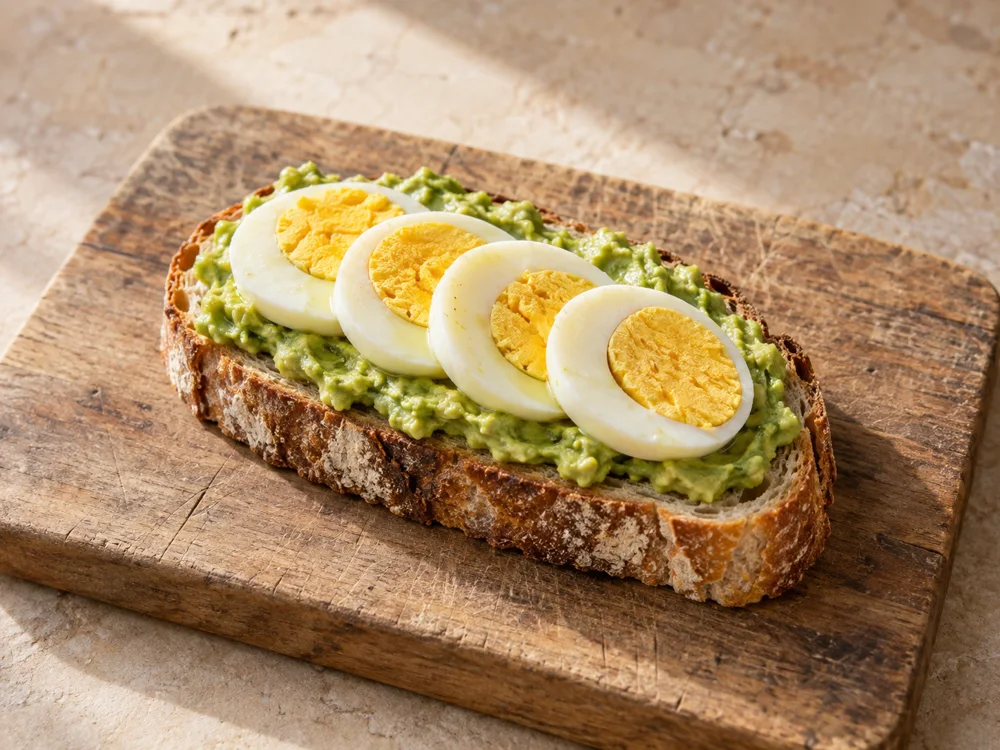
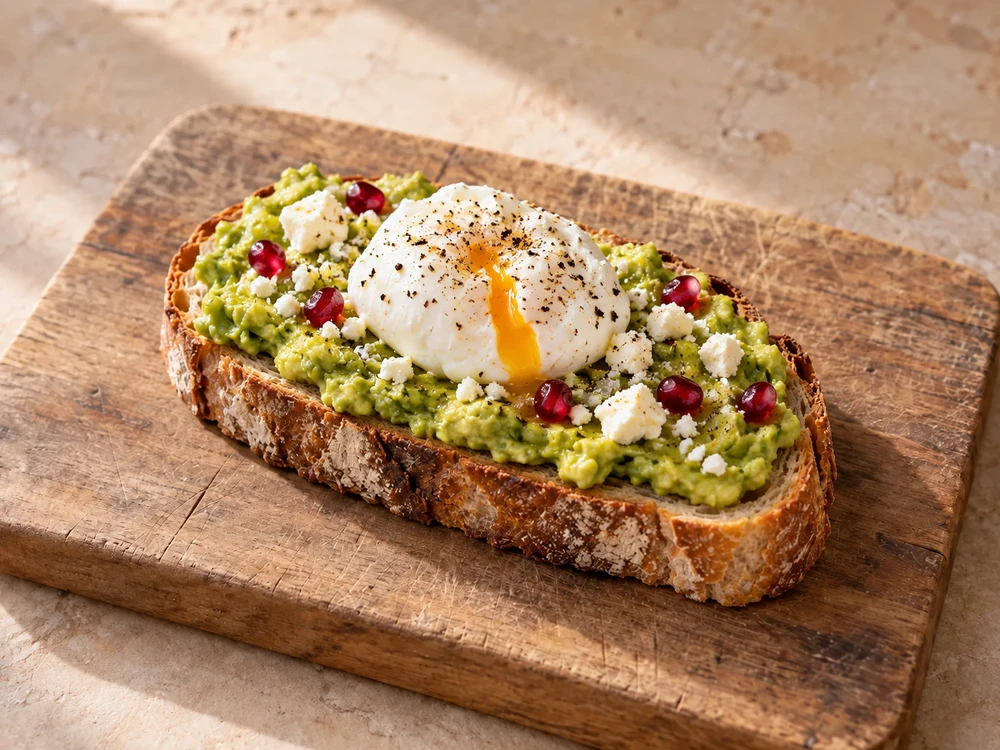
Refresh avocado tartine and make finishing garnishes opt-in

diff --git a/app/lib/sandwichCatalog.ts b/app/lib/sandwichCatalog.ts
@@ -2,7 +2,7 @@ export type SandwichFamily = 'baguette' | 'focaccia' | 'bagel' | 'pita' | 'greek
 export type SandwichText = { fr: string; en: string };
 export type SandwichAllergen = 'gluten' | 'milk' | 'egg' | 'fish' | 'sesame' | 'nuts' | 'mustard' | 'soy';
 export interface SandwichIngredient { id: string; name: SandwichText; kcalPer100g: number; allergens: SandwichAllergen[]; vegetarian: boolean; category: 'vegetables' | 'protein' | 'dairy' | 'pantry' | 'bread'; source: string; referenceFood: string; provenance: 'generic-food-estimate'; }
-export interface SandwichPortion { ingredientId: string; grams: number; }
+export interface SandwichPortion { ingredientId: string; grams: number; optionalGrams?: number; }
 export interface SandwichStep { id: string; title: SandwichText; instruction: SandwichText; minutes: number; phase: 'prep' | 'cook' | 'assemble' | 'chill'; }
 export interface SandwichRecipe { id: string; familyId: SandwichFamily; name: SandwichText; kind: 'classic' | 'inspired'; lighter: boolean; vegetarian: boolean; ingredients: SandwichPortion[]; steps: SandwichStep[]; allergens: SandwichAllergen[]; image: string; breadGrams: number; sourceIds: string[]; }
 export interface SandwichFamilyInfo { id: SandwichFamily; name: SandwichText; image: string; breadGrams: number; breadKcalPer100g: number; comparisonKcal: number; }
@@ -37,6 +37,9 @@ const ingredientRows: IngredientRow[] = [
  ['tuna','Thon au naturel égoutté','Drained tuna in water',116,'protein',['fish'],false],['smoked_salmon','Saumon fumé prêt à consommer','Ready-to-eat smoked salmon',180,'protein',['fish'],false],
  ['sardine','Sardines à l’huile égouttées','Drained sardines in oil',208,'protein',['fish'],false],['anchovy','Anchois à l’huile égouttés','Drained anchovies in oil',210,'protein',['fish'],false],
  ['egg','Œuf dur écalé','Peeled hard-boiled egg',155,'protein',['egg']],['chickpea','Pois chiches cuits égouttés','Drained cooked chickpeas',139,'protein'],
+ ['egg_to_poach','Œuf à pocher','Egg for poaching',143,'protein',['egg']],
+ ['pomegranate','Graines de grenade','Pomegranate seeds',83,'vegetables'],
+ ['salt','Sel','Salt',0,'pantry'],['black_pepper','Poivre noir','Black pepper',251,'pantry'],
  ['white_bean','Haricots blancs cuits égouttés','Drained cooked white beans',114,'protein'],['falafel','Falafels déjà cuits','Cooked falafel',333,'protein',[],true],
  ['hummus','Houmous au tahini','Tahini hummus',237,'pantry',['sesame']],['tahini','Tahini','Tahini',595,'pantry',['sesame']],
  ['mozzarella','Mozzarella égouttée','Drained mozzarella',250,'dairy',['milk']],['burrata','Burrata égouttée','Drained burrata',300,'dairy',['milk']],
@@ -62,10 +65,10 @@ for (const f of SANDWICH_FAMILIES) SANDWICH_INGREDIENTS[`bread_${f.id}`] = {id:`
 // Ingredient quantities are edible grams for ONE serving: a sandwich, or an open-faced tartine portion.
 type RecipeRow = [SandwichFamily,string,string,string,'classic'|'inspired',boolean,string];
 const recipeRows: RecipeRow[] = [
- ['tartine','avocat-oeuf','Avocat et œuf dur','Avocado & hard-boiled egg','inspired',false,'avocado:60 egg:55 lemon:5'],
+ ['tartine','avocat-oeuf','Avocat, œuf poché et feta','Avocado, poached egg & feta','inspired',false,'avocado:60 egg_to_poach:55 feta:25 lemon:5 salt:0.3 black_pepper:0.1 pomegranate:0:15'],
  ['tartine','chevre-miel-noix','Chèvre, miel et noix','Goat cheese, honey & walnuts','classic',false,'goat_cheese:40 honey:8 walnut:10'],
  ['tartine','jambon-emmental','Jambon et emmental','Ham & Emmental','classic',false,'ham:45 emmental:25 butter:5'],
- ['tartine','champignons-ricotta','Champignons et ricotta','Mushrooms & ricotta','inspired',false,'mushroom:80 ricotta:35 olive_oil:3 parsley:3'],
+ ['tartine','champignons-ricotta','Champignons et ricotta','Mushrooms & ricotta','inspired',false,'mushroom:80 ricotta:35 olive_oil:3 parsley:0:3'],
  ['tartine','tomate-ricotta','Tomate, ricotta et basilic','Tomato, ricotta & basil','inspired',true,'tomato:70 ricotta:30 basil:3'],
  ['tartine','thon-yaourt','Thon, yaourt et concombre','Tuna, yogurt & cucumber','inspired',true,'tuna:50 yogurt:20 cucumber:40 lemon:5'],
  ['baguette','jambon-beurre','Jambon-beurre','Ham & butter','classic',false,'ham:70 butter:18 pickle:20'],
@@ -78,17 +81,17 @@ const recipeRows: RecipeRow[] = [
  ['baguette','legumes-mozza','Légumes rôtis et mozzarella','Roasted vegetables & mozzarella','inspired',false,'courgette:60 pepper:50 mozzarella:55 olive_oil:5 basil:3'],
  ['baguette','poulet-citron','Poulet citron et croquant','Lemon chicken & crunch','inspired',true,'chicken:55 yogurt:20 lemon:8 lettuce:25 cucumber:50 carrot:30'],
  ['baguette','thon-yaourt','Thon, yaourt et concombre','Tuna, yogurt & cucumber','inspired',true,'tuna:65 yogurt:20 cucumber:60 tomato:40 lemon:6'],
- ['focaccia','mortadelle-pistache','Mortadelle, burrata et pistache','Mortadella, burrata & pistachio','classic',false,'mortadella:65 burrata:60 pistachio:12 rocket:15'],
+ ['focaccia','mortadelle-pistache','Mortadelle et burrata','Mortadella & burrata','classic',false,'mortadella:65 burrata:60 pistachio:0:12 rocket:15'],
  ['focaccia','crudo-mozza','Jambon cru et mozzarella','Prosciutto & mozzarella','classic',false,'prosciutto:60 mozzarella:65 tomato:50 rocket:15'],
  ['focaccia','porchetta','Porchetta et roquette','Porchetta & rocket','classic',false,'porchetta:100 rocket:20 mustard:8'],
  ['focaccia','caprese','Tomate, mozzarella et basilic','Tomato, mozzarella & basil','classic',false,'mozzarella:85 tomato:90 basil:5 olive_oil:8'],
  ['focaccia','salame-provolone','Salami et provolone','Salami & provolone','classic',false,'salami:55 provolone:45 rocket:20'],
  ['focaccia','saumon-avocat','Saumon et avocat','Salmon & avocado','inspired',false,'smoked_salmon:65 avocado:65 cream_cheese:25 lemon:6'],
- ['focaccia','champignons-ricotta','Champignons et ricotta','Mushrooms & ricotta','inspired',false,'mushroom:120 ricotta:70 olive_oil:6 parsley:4'],
+ ['focaccia','champignons-ricotta','Champignons et ricotta','Mushrooms & ricotta','inspired',false,'mushroom:120 ricotta:70 olive_oil:6 parsley:0:4'],
  ['focaccia','aubergine-pesto','Aubergine, mozzarella et pesto','Aubergine, mozzarella & pesto','inspired',false,'aubergine:100 mozzarella:60 pesto:15 olive_oil:5'],
  ['focaccia','poulet-roquette','Poulet, roquette et citron','Chicken, rocket & lemon','inspired',true,'chicken:60 rocket:25 tomato:70 yogurt:20 lemon:8'],
  ['focaccia','legumes-ricotta','Légumes rôtis et ricotta','Roasted vegetables & ricotta','inspired',true,'courgette:80 pepper:60 ricotta:35 olive_oil:3 basil:4'],
- ['bagel','saumon-cream-cheese','Saumon et fromage frais','Smoked salmon & cream cheese','classic',false,'smoked_salmon:75 cream_cheese:45 cucumber:35 caper:8 onion:10'],
+ ['bagel','saumon-cream-cheese','Saumon et fromage frais','Smoked salmon & cream cheese','classic',false,'smoked_salmon:75 cream_cheese:45 cucumber:35 caper:0:8 onion:10'],
  ['bagel','oeuf-cheddar','Œuf et emmental','Egg & Emmental','classic',false,'egg:100 emmental:40 butter:8'],
  ['bagel','thon-mayo','Thon mayonnaise','Tuna mayonnaise','classic',false,'tuna:85 mayonnaise:25 lettuce:20 tomato:40'],
  ['bagel','roast-beef','Bœuf, moutarde et cornichons','Roast beef, mustard & gherkins','classic',false,'roast_beef:90 cream_cheese:25 mustard:10 pickle:25'],
@@ -141,7 +144,7 @@ const recipeRows: RecipeRow[] = [
  ['ciabatta','caprese','Tomate, mozzarella et basilic','Tomato, mozzarella & basil','classic',false,'mozzarella:85 tomato:90 olive_oil:8 basil:5'],
  ['ciabatta','crudo','Jambon cru et mozzarella','Prosciutto & mozzarella','classic',false,'prosciutto:65 mozzarella:65 rocket:20 olive_oil:5'],
  ['ciabatta','porchetta','Porchetta et poivrons','Porchetta & peppers','classic',false,'porchetta:110 pepper:70 olive_oil:5 rocket:20'],
- ['ciabatta','champignons-provolone','Champignons et provolone','Mushrooms & provolone','inspired',false,'mushroom:110 provolone:65 olive_oil:8 parsley:5'],
+ ['ciabatta','champignons-provolone','Champignons et provolone','Mushrooms & provolone','inspired',false,'mushroom:110 provolone:65 olive_oil:8 parsley:0:5'],
  ['ciabatta','dinde-crudites','Dinde et crudités','Turkey & fresh salad','inspired',true,'turkey:60 yogurt:20 cucumber:55 tomato:55 lettuce:20 mustard:5'],
  ['ciabatta','haricots-roquette','Haricots blancs et roquette','White beans & rocket','inspired',true,'white_bean:75 rocket:25 tomato:80 olive_oil:3 lemon:8'],
  ['panuozzo','pancetta-mozza','Pancetta et mozzarella','Pancetta & mozzarella','classic',false,'pancetta:60 mozzarella:85'],
@@ -157,6 +160,16 @@ export function buildSandwichSteps(id: string, familyId: SandwichFamily, ingredi
   const has = (ingredientId: string) => ingredients.some(i=>i.ingredientId===ingredientId);
   const steps: SandwichStep[] = [];
   const add = (key:string,fr:string,en:string,frInstruction:string,enInstruction:string,minutes:number,phase:SandwichStep['phase']) => steps.push({id:`${id}-${key}`,title:text(fr,en),instruction:text(frInstruction,enInstruction),minutes,phase});
+  if (id==='tartine-avocat-oeuf') {
+    add('prep','Préparer la garniture','Prepare the toppings','Pesez les garnitures par portion. Préparez le citron et, si elle est sélectionnée, la grenade. Émiettez la feta si elle est conservée.','Weigh the toppings per portion. Prepare the lemon and, if selected, the pomegranate. Crumble the feta if retained.',3,'prep');
+    add('bread','Trancher et toaster','Slice and toast','Pesez 60 g de pain déjà cuit et refroidi par portion : une grande tranche ou plusieurs petites. Toastez légèrement. Une portion ne correspond pas à un pain entier.','Weigh 60 g of baked, cooled bread per portion: one large slice or several small ones. Toast lightly. One portion is not one whole loaf.',3,'cook');
+    if (has('avocado')) add('avocado','Écraser l’avocat','Mash the avocado','Écrasez l’avocat à la fourchette avec le citron s’il est conservé. Assaisonnez avec un peu du sel et du poivre prévus, en tenant compte de la feta déjà salée.','Mash the avocado with the lemon if retained. Season with a little of the listed salt and pepper, allowing for the saltiness of the feta.',2,'prep');
+    if (has('egg_to_poach')) add('egg','Pocher l’œuf','Poach the egg','Comptez environ 1 œuf par portion (55 g sans coquille). Cassez chaque œuf dans une petite tasse. Glissez-le dans une casserole d’eau frémissante, sans gros bouillons. Pochez 3–4 min, jusqu’à ce que le blanc soit pris ; prolongez pour un jaune plus ferme. Égouttez délicatement avec une écumoire.','Allow about 1 egg per portion (55 g without shell). Crack each egg into a small cup. Slide into gently simmering water, not a rolling boil. Poach for 3–4 minutes until the white is set; cook longer for a firmer yolk. Lift out gently with a slotted spoon and drain.',5,'cook');
+    const toppingsFr=[has('avocado')?'Étalez l’avocat sur le pain.':'Disposez les garnitures conservées sur le pain.',has('feta')?'Répartissez la feta émiettée.':'',has('egg_to_poach')?'Déposez délicatement l’œuf poché.':'',has('salt')||has('black_pepper')?'Terminez avec le sel et le poivre conservés, selon votre goût.':'',has('pomegranate')?'Parsemez les graines de grenade sélectionnées.':'','Servez ouvert, sans seconde tranche par-dessus, aussitôt.'].filter(Boolean).join(' ');
+    const toppingsEn=[has('avocado')?'Spread the avocado over the toast.':'Arrange the retained toppings over the toast.',has('feta')?'Scatter over the crumbled feta.':'',has('egg_to_poach')?'Gently place the poached egg on top.':'',has('salt')||has('black_pepper')?'Finish with the retained salt and pepper to taste.':'',has('pomegranate')?'Sprinkle over the selected pomegranate seeds.':'','Serve open-faced, without another slice on top, immediately.'].filter(Boolean).join(' ');
+    add('assemble','Garnir et servir','Top and serve',toppingsFr,toppingsEn,2,'assemble');
+    return steps;
+  }
   add('prep','Préparer la garniture','Prepare the filling','Lavez et séchez les légumes et les herbes. Émincez les crudités, râpez la carotte si présente. Égouttez les conserves et les fromages indiqués égouttés. Pesez les quantités par sandwich.','Wash and dry the vegetables and herbs. Thinly slice salad vegetables; grate carrot if included. Drain canned ingredients and cheeses labelled drained. Weigh the amounts per sandwich.',8,'prep');
   if (familyId==='tartine') steps[0].instruction = text(steps[0].instruction.fr.replace('par sandwich','par portion de tartine'),steps[0].instruction.en.replace('per sandwich','per tartine portion'));
   if (has('egg')) add('egg','Préparer l’œuf','Prepare the egg','Utilisez l’œuf dur écalé prévu dans la liste. Si vous le cuisez vous-même, faites-le cuire jusqu’à ce que le blanc et le jaune soient fermes, refroidissez-le rapidement, puis écalez et tranchez.','Use the peeled hard-boiled egg listed. If cooking it yourself, cook until white and yolk are firm, cool promptly, then peel and slice.',10,'cook');
@@ -183,10 +196,10 @@ export function buildSandwichSteps(id: string, familyId: SandwichFamily, ingredi
 }
 export const SANDWICH_RECIPES: SandwichRecipe[] = recipeRows.map(([familyId,slug,fr,en,kind,lighter,encoded])=>{
   const info=SANDWICH_FAMILIES.find(f=>f.id===familyId)!;
-  const ingredients=encoded.split(' ').map(part=>{const [ingredientId,grams]=part.split(':');return {ingredientId,grams:Number(grams)};});
+  const ingredients=encoded.split(' ').map(part=>{const [ingredientId,grams,optionalGrams]=part.split(':');return {ingredientId,grams:Number(grams),...(optionalGrams?{optionalGrams:Number(optionalGrams)}:{})};});
   const vegetarian=ingredients.every(i=>SANDWICH_INGREDIENTS[i.ingredientId].vegetarian);
   const id=`${familyId}-${slug}`;
-  return {id,familyId,name:text(fr,en),kind,lighter,vegetarian,ingredients,steps:buildSandwichSteps(id,familyId,ingredients,vegetarian),allergens:[...new Set<SandwichAllergen>(['gluten',...ingredients.flatMap(i=>SANDWICH_INGREDIENTS[i.ingredientId].allergens)])],image:`/images/approved/sandwich/${id}.webp`,breadGrams:info.breadGrams,sourceIds:familyId==='pan_bagnat'&&kind==='classic'?['nice-pan-bagnat']:familyId==='piadina'&&kind==='classic'?['romagna-piadina']:['bakerhub-editorial']};
+  return {id,familyId,name:text(fr,en),kind,lighter,vegetarian,ingredients,steps:buildSandwichSteps(id,familyId,ingredients.filter(i=>i.grams>0),vegetarian),allergens:[...new Set<SandwichAllergen>(['gluten',...ingredients.flatMap(i=>SANDWICH_INGREDIENTS[i.ingredientId].allergens)])],image:`/images/approved/sandwich/${id}.webp`,breadGrams:info.breadGrams,sourceIds:familyId==='pan_bagnat'&&kind==='classic'?['nice-pan-bagnat']:familyId==='piadina'&&kind==='classic'?['romagna-piadina']:['bakerhub-editorial']};
 });
 const recipeEnergy = (r:SandwichRecipe) => r.breadGrams*SANDWICH_FAMILIES.find(f=>f.id===r.familyId)!.breadKcalPer100g/100+r.ingredients.reduce((sum,i)=>sum+i.grams*SANDWICH_INGREDIENTS[i.ingredientId].kcalPer100g/100,0);
 // "Lighter" means >=20% less estimated energy than this family's classic recipes,

diff --git a/app/components/SandwichParty.tsx b/app/components/SandwichParty.tsx
@@ -200,12 +200,20 @@ export default function SandwichParty({isFr,styleKey,snapshot,onChange,breadIngr
         <div className={styles.sheetBody}>
           <img className={styles.recipePhoto} src={detail.image} alt={tr(detail.name)} width={640} height={480} decoding="async"/>
           {Object.keys(snapshot.ingredientOverrides?.[detail.id]??{}).length>0&&<p className={styles.muted}>{t('Photo de la recette de base ; vos garnitures ont été personnalisées.','Photo shows the original recipe; you have customized the fillings.')}</p>}
+          {detail.ingredients.some(item=>item.optionalGrams)&&<p className={styles.muted}>{t('Photo avec les garnitures facultatives proposées ci-dessous.','Photo includes the optional toppings offered below.')}</p>}
           <p className={styles.muted}>{tartine ? t('Pour une portion de tartine','For one toast portion') : t('Pour un sandwich','For one sandwich')} · ≈ {kcal(detail)} kcal · {t('pain inclus','bread included')}</p>
           <h3>{t('Pain','Bread')}</h3><p>{breadName} · ≈ {detail.breadGrams} g</p>
           <p className={styles.muted}>{t('Calories estimées avec des aliments génériques ; le pain et les marques peuvent modifier le résultat.','Calories use generic food estimates; bread and brands can change the result.')}</p>
           <h3>{tartine ? t('Garnitures par portion','Toppings per portion') : t('Garnitures par sandwich','Fillings per sandwich')}</h3>
           <p className={styles.muted}>{t('Ajustez les grammes ; 0 retire un ingrédient. Les courses et calories suivent vos changements.','Adjust grams; 0 removes an ingredient. Shopping quantities and calories follow your changes.')}</p>
-          {detail.ingredients.map(item=><div key={item.ingredientId} className={styles.ingredient}><label htmlFor={`${detailHeading}-${item.ingredientId}`}>{ingredientName(item.ingredientId)}</label><input id={`${detailHeading}-${item.ingredientId}`} type="number" inputMode="decimal" min={0} max={500} step={5} value={snapshot.ingredientOverrides?.[detail.id]?.[item.ingredientId]??item.grams} onChange={event=>{const value=Number(event.target.value);onChange(updateSandwichRecipe({...snapshot,familyId:family.id},detail.id,count(snapshot.qtys[detail.id]),{...snapshot.ingredientOverrides?.[detail.id],[item.ingredientId]:Number.isFinite(value)?Math.max(0,Math.min(500,value)):item.grams}));}}/><span>g</span></div>)}
+          {detail.ingredients.map(item=>{
+            const grams=snapshot.ingredientOverrides?.[detail.id]?.[item.ingredientId]??item.grams;
+            const setGrams=(value:number)=>onChange(updateSandwichRecipe({...snapshot,familyId:family.id},detail.id,count(snapshot.qtys[detail.id]),{...snapshot.ingredientOverrides?.[detail.id],[item.ingredientId]:Number.isFinite(value)?Math.max(0,Math.min(500,value)):item.grams}));
+            return <div key={item.ingredientId}>
+              {item.optionalGrams&&<label className={styles.check}><input type="checkbox" checked={grams>0} onChange={event=>setGrams(event.target.checked?item.optionalGrams!:0)}/><span>{t('Ajouter : ','Add: ')}{ingredientName(item.ingredientId)} {t('(facultatif)','(optional)')}</span></label>}
+              {(!item.optionalGrams||grams>0)&&<div className={styles.ingredient}><label htmlFor={`${detailHeading}-${item.ingredientId}`}>{ingredientName(item.ingredientId)}</label><input id={`${detailHeading}-${item.ingredientId}`} type="number" inputMode="decimal" min={0} max={500} step={item.grams>0&&item.grams<5?0.1:5} value={grams} onChange={event=>setGrams(Number(event.target.value))}/><span>g</span></div>}
+            </div>;
+          })}
           {snapshot.ingredientOverrides?.[detail.id]&&<button type="button" className={`${styles.button} ${styles.wide}`} onClick={()=>{onChange(updateSandwichRecipe({...snapshot,familyId:family.id},detail.id,count(snapshot.qtys[detail.id]),{}));}}>{t('Rétablir les garnitures','Reset fillings')}</button>}
           <p className={styles.muted}>{t('Allergènes de la recette de base','Base recipe allergens')} : {detail.allergens.map(allergen=>({gluten:t('gluten','gluten'),milk:t('lait','milk'),egg:t('œuf','egg'),fish:t('poisson','fish'),sesame:t('sésame','sesame'),nuts:t('fruits à coque','nuts'),mustard:t('moutarde','mustard'),soy:t('soja','soy')}[allergen])).join(', ')}. {t('Vérifiez les étiquettes de vos produits.','Check your product labels.')}</p>
           <h3 style={{marginTop:22}}>{t('Préparation et cuisson','Preparation and cooking')}</h3><ol className={styles.steps}>{stepsFor(detail).map(step=><li key={step.id}><strong>{tr(step.title)}{step.minutes>0?` · ≈ ${step.minutes} min`:''}</strong>{tr(step.instruction)}</li>)}</ol>

diff --git a/docs/TARTINE-AND-OPTIONAL-GARNISHES-20260923.md b/docs/TARTINE-AND-OPTIONAL-GARNISHES-20260923.md
@@ -1,0 +1,27 @@
+# Avocado tartine and optional finishing touches
+
+User-requested update: avocado tartine now uses a poached egg, feta, optional pomegranate, salt and pepper. Stable recipe ID and image path are retained so saved selections still resolve. Other recipes continue to use the existing hard-boiled egg ingredient.
+
+Per portion: 60 g cooked bread, 60 g avocado, 55 g edible egg (about one egg), 25 g feta, 5 g lemon juice, 0.3 g salt and 0.1 g black pepper. Pomegranate is off by default; opting in adds 15 g per portion. All weights remain editable. The instructions toast the bread, mash the avocado, poach the egg, then assemble immediately. Ingredient removal changes the applicable preparation/assembly instructions.
+
+Optional extras use the existing ingredient-override state, so shopping, approximate nutrition and local snapshots follow the checkbox. Defaults are zero; `optionalGrams` provides a suggested amount when enabled. Salt is explicitly permitted to have zero energy rather than inventing a caloric value.
+
+Applied selectively to six recipes:
+- Avocado tartine: pomegranate.
+- Mortadella and burrata focaccia: pistachios. The title no longer promises mandatory pistachios.
+- Smoked salmon and cream cheese bagel: capers.
+- Mushroom/ricotta tartine, mushroom/ricotta focaccia and mushroom/provolone ciabatta: parsley.
+
+Core ingredients, bread requirements and established classic identities remain in the base recipe. Photos that include optional extras are labelled accordingly in the recipe detail.
+
+## Image
+
+Built-in image generation; existing dish photo supplied as the edit target. Saved project asset: `public/images/approved/sandwich/tartine-avocat-oeuf.webp`, 1000×750 WebP. Source generated PNG remains in the thread's generated-images directory. AI illustration, not a photograph of a tested bake.
+
+Final prompt:
+
+> Use case: precise-object-edit. Asset: Bakerhub recipe catalogue food photograph. Regenerate this avocado tartine photograph to match the updated recipe: ONE thick rustic country sourdough toast spread with crushed avocado and lemon, topped with ONE softly poached egg (tender white, a little golden yolk visible), crumbled feta, a restrained scattering of optional ruby pomegranate seeds, visible freshly ground black pepper and a few delicate salt flakes. Replace all hard-boiled egg slices with the single poached egg. Keep the same warm natural side lighting, rustic wooden board, beige stone backdrop, appetising realistic editorial food photography and close three-quarter overhead view. Whole toast fits inside frame with comfortable margin. Landscape 4:3 composition suitable for existing catalogue crop. No text, labels, logos, utensils, extra toast, hard-boiled egg slices or irrelevant garnishes. Feta and pepper must be clearly visible; pomegranate is a light optional finishing sprinkle, not a dominant ingredient.
+
+Verification: all 233 existing/updated unit tests passed, TypeScript and production build passed, 88/88 catalogue image assets decoded with the expected aspect ratio. Local browser checks cover the updated recipe and optional selection. Account saving and deployed browser behavior are not established by these local checks.
+
+The landing-page concept is a separate in-conversation prototype: homemade pizza/bread remain the primary entry, with a secondary existing-dough/bread/wrap entry that bypasses dough-making. It is not implemented as an application route in this recipe update.

diff --git a/PROJECT-HANDOFF.md b/PROJECT-HANDOFF.md
@@ -1,5 +1,11 @@
 # Bakerhub — continuation handoff
 
+## Recipe update and next UX target — 23 September 2026
+
+Avocado tartine now uses poached egg, feta, salt/pepper and opt-in pomegranate, with regenerated photography. Six recipes have selective optional finishing touches backed by existing ingredient overrides. See `docs/TARTINE-AND-OPTIONAL-GARNISHES-20260923.md` for defaults, image prompt and verification.
+
+New product direction from the user: Bakerhub remains a baking companion, but should accommodate purchased pizza dough and existing bread/wraps without forcing dough setup. The landing-page entry is being explored in conversation. Simple mode's target user is a competent home cook with no baking experience, sent a chicken-pita task for tonight: minimal decisions, recommended defaults, hand/KitchenAid methods, actionable instructions. Custom is for expert control. The helper scenario requires a separate UX audit; do not claim the new beginner journey is already implemented by the recipe change.
+
 ## Latest prototype revision — 23 September 2026
 
 For the navigation refinement, continue on `codex/navigation-polish-20260923`, created from `5a16793` on `codex/navigation-six-sections-20260922`. This entry supersedes the older active-branch instruction below for this task. Local checkout: `/Users/romaricernst/Documents/Codex/baker-navigation-polish`.
